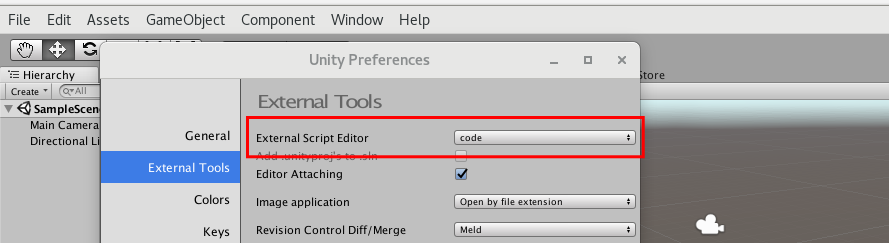
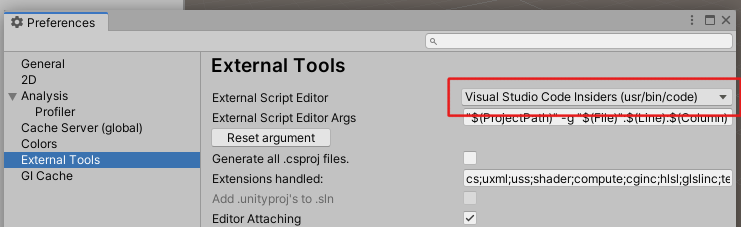
cittavr: updating docs, not finished

diff --git a/cittavr/content/_index.md b/cittavr/content/_index.md
@@ -21,89 +21,65 @@ or an external tool, like [Blender](https://www.blender.org/).
 
 Let's begin with the installation.
 
+
 # Installation of Unity on Linux
 
-First of all, you should be aware that the Unity Editor for Linux is
-still a **beta release**, so: 1) there are very frequent releases (one
-every few days), and 2) there may be some bugs and unsteady
-releases. Please, take this into account if you get unexpected
-results.
-
 {{% note primary %}}
-**Note:** This manual was completed and tested with `Unity 2018.2.6`,
+**Note:** This manual was completed and tested with `Unity 2019.3.0f6`,
 but you should get similar results with any **newer** release.
+<br><br>
 {{% /note %}}
 
-To **download** the most recent version of the Editor (or any older one),
-you must check the forum post where they are announced:
+To **download** the most recent version of the Editor (or any older one), you
+should use the **Unity Hub**, which could be found here:
 
-* [Unity on Linux: Release Notes and Known Issues]
-  (https://forum.unity.com/threads/unity-on-linux-release-notes-and-known-issues.350256/)
+* [Download Unity](https://unity3d.com/es/get-unity/download)
 
-There, go to the last published post, and you will find the link to
-the latest installer. Download it (the following command is for the
-**2018.2.6** release):
+Mark it as **executable** and run it (you could, of course, do it from the GUI):
 
 {{< shell >}}
-$ wget https://beta.unity3d.com/download/793261fe3e9a/UnitySetup-2018.2.6f1
+chmod a+x UnityHub.AppImage
+./UnityHub.AppImage
 {{< /shell >}}
 
-Make it executable and run it:
+Once you start the Hub, you could go to the **Installs** tab and add the version
+you prefer:
 
-{{< shell >}}
-$ chmod a+x UnitySetup-2018.2.6f1
-$ ./UnitySetup-2018.2.6f1
-{{< /shell >}}
-
-Now, you should see an assistant that will guide you through the
-installation. The process is very straightforward: click 'next' and
-accept the License, **select the components** you want to install, and
-**pick a folder** where the Editor will be installed. Then, just wait
-to finish the installation (please, be patient, and dismiss any ANR
-message :).
-
-Once it finished, I recommend you to add the installation path (i.e:
-`$INSTALL_DIR/Editor/`) to your environment `PATH` variable, so you
-can launch Unity from the command line easily.
+{{< polaroid src="unity-hub-add-version.png" caption="Unity Hub: adding a Unity version"
+>}}
 
 Also, you will need an external tool for editing the source code (in
 C#). You may use whatever you want (like Emacs or Atom), but the
 recommended IDE (and what has better integration) is [Visual Studio
 Code](https://code.visualstudio.com/). You can just grab the `.deb`
-package and install it like any other Debian package. After that, open
-Unity (create a new temporary project if needed) and go to `Edit >
-Preferences`. In the tab `External Tools`, change the property
-`External Script Editor` to VS Code (click on *Browse* if needed). You
-can see this dialog in the following screenshot:
+package and install it like any other Debian package.
 
-{{< polaroid src="unity - external editor setting.png" caption="Unity: external source editor setting" >}}
-
-Once finished, you are **ready to start** a new Unity project and add
-support for CittaVR to it. Let's see how.
+Now, you are **ready to start** a new Unity project and add support for CittaVR
+to it. Let's see how.
 
 # Creating a new project
 
-First of all, **close Unity** if you have it already open. We will
-create a fresh new project for this part. Then, open Unity again; from
-the command line it would be with:
+This step is very straightforward: just open the Unity Hub (if you closed it)
+and go to the **Projects** tab. Click on the **New** button. Select the project
+type, its location and also the name:
 
-{{< shell >}}
-$ unity
-{{< /shell >}}
+{{< polaroid src="unity-hub-new-project.png" caption="Unity Hub: creating a new project"
+>}}
 
-Now, you will be requested to login with your unity account. Just
-create one if you didn't do it before, and then **login**. After that,
-Unity will show you the **Project Manager**. Click on `New` and give
-it a proper name and location.
+<!--
+{{% note primary %}}
+It may be possible that in some step, you would be requested to login with your
+unity account. Just create one if you didn't do it before, and then **login**.
+<br><br>
+{{% /note %}}
+-->
 
-{{< polaroid src="unity - new project.png"
-             caption="Unity: creating a new project" >}}
-
-Press on `Create project` and wait. It **will take some time** to
+Press on `Create` and wait. It **will take some time** to
 compile the minimum assets included by default on every new
 project. Just wait until it finishes and shows the Unity Editor with
 your newly created project.
 
+<!--
 ## Setting .NET framework
 
 First thing you should do is to **change your project settings**, because
@@ -122,11 +98,19 @@ picture:
 Set it to `.NET 4.x Equivalent` and click on *Restart* when
 requested. It will **compile again** all your assets, but now using the
 new framework version.
+-->
 
 ## Open C# project
 
-Now is a good time to **check your IDE integration**. (if you want to
-use an IDE, anyway) To open it, just right click on an empty space of
+Now is a good time to **check your IDE integration** (if you want to use an IDE,
+anyway). To configure the recommended settings, got to `Edit > -Preferences`. In
+the tab `External Tools`, change the property `External Script Editor` to Visual
+Studio Code Insiders (click on *Browse* if needed). You can see this dialog in
+the following screenshot:
+
+{{< polaroid src="unity - external editor setting.png" caption="Unity: external source editor setting" >}}
+
+And to open it the C# project, just right click on an empty space of
 your assets folder, and click on `Open C# Project`:
 
 {{< polaroid src="/unity - open cs project.png"
@@ -136,6 +120,7 @@ your assets folder, and click on `Open C# Project`:
 If you now see VS Code open, and **loaded with your Unity project**,
 well done! You are ready for rock 'n roll! ;)
 
+<!--
 ## Setup of IDM router
 
 If you are using CittaVR, you should know that **it uses IDM** as its
@@ -167,6 +152,7 @@ $ idm-router --Ice.Config=router.config
 
 {{< polaroid src="vscode - running idm router.png"
              caption="IDM: running the router with your settings" >}}
+
 
 
 ## Add CittaVR config file
@@ -739,3 +725,8 @@ When you press the button, it will create a folder called `Generated`
 with the generated code for that slice interface. For now, you don't
 have any other option, like support for including other directories,
 but I'm working on it :D
+
+-->
+
+<hr>
+**Update in progress...**
